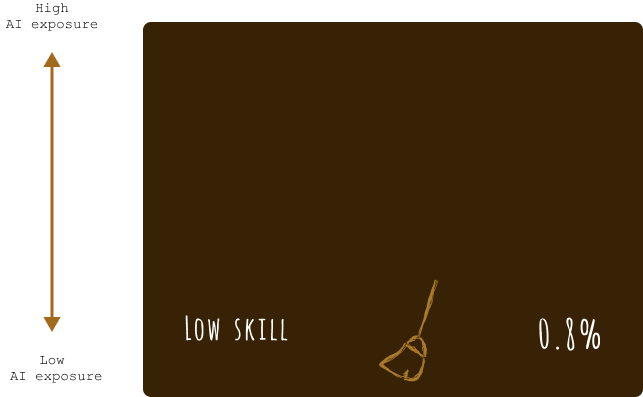
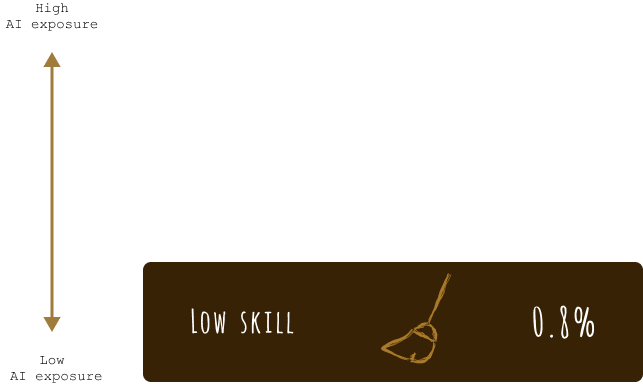
Refactor chart8: Update cutout images and clean up layout and logic

diff --git a/ai_exposure.js b/ai_exposure.js
@@ -648,22 +648,31 @@ chartRenderers[8] = function(titleText, dataPath, chartArea) {
     height: 397
   };
 
+  const cardWidth = 500;
+  const cardHeight = 120;
+  const cardGap = 16;
+
   const cards = [
     {
       label: "Medium skill",
-      x: 200,
-      y: 160,
+      y: skillBg.y,
       image: "assets/chapter2/medium_skill.png",
       color: "#943533",
       tooltip: "25.8% medium exposure + 12.3% high exposure"
     },
     {
       label: "High skill",
-      x: 150,
-      y: 300,
-      image: "assets/chapter2/high skill.png",
+      y: skillBg.y + cardHeight + cardGap,
+      image: "assets/chapter2/high_skill.png",
       color: "#A07B3B",
       tooltip: "22.2% medium exposure + 13.1% high exposure"
+    },
+    {
+      label: "Low skill",
+      y: skillBg.y + (cardHeight + cardGap) * 2,
+      image: "assets/chapter2/low_skill.png",
+      color: "#3B260E",
+      tooltip: "Only 0.8% high or medium exposure"
     }
   ];
 
@@ -671,8 +680,8 @@ chartRenderers[8] = function(titleText, dataPath, chartArea) {
     const svg = chartArea.append("svg")
       .attr("width", width)
       .attr("height", height);
-
-    // ✅ 添加：独白控制变量和函数
+    
+    // ✅ 独白控制逻辑
     let hasShownDialogue3 = false;
     function showChart8DialogueImage() {
       if (hasShownDialogue3) return;
@@ -681,12 +690,12 @@ chartRenderers[8] = function(titleText, dataPath, chartArea) {
       document.addEventListener("click", () => hideDialogueBoxById("dialogue-box3"), { once: true });
     }
 
-    // 背景底图（包含 low skill）
+    // ✅ 左侧箭头图片
     svg.append("image")
-      .attr("href", "assets/chapter2/skill_level_bg.png")
-      .attr("x", skillBg.x)
+      .attr("href", "assets/chapter2/arrow.png")
+      .attr("x", 30)
       .attr("y", skillBg.y)
-      .attr("width", skillBg.width)
+      .attr("width", 104)  // 根据你的图片尺寸调整
       .attr("height", skillBg.height);
 
     // tooltip
@@ -704,18 +713,20 @@ chartRenderers[8] = function(titleText, dataPath, chartArea) {
       .style("display", "none")
       .style("pointer-events", "none");
 
-    // 卡片层（含背景 + 切图）
+    // ✅ 卡片层
+    const cardX = 172;
+
     cards.forEach(card => {
       const group = svg.append("g")
-        .attr("transform", `translate(${card.x}, ${card.y})`)
+        .attr("transform", `translate(${cardX}, ${card.y})`)
         .style("cursor", "default");
 
       const rect = group.append("rect")
         .attr("x", 0)
         .attr("y", 0)
-        .attr("width", 500)
-        .attr("height", 120)
-        .attr("rx", 14)
+        .attr("width", cardWidth)
+        .attr("height", cardHeight)
+        .attr("rx", 8)
         .attr("fill", card.color)
         .attr("opacity", 0.95);
 
@@ -727,7 +738,7 @@ chartRenderers[8] = function(titleText, dataPath, chartArea) {
         .attr("y", 15);
 
       group.on("mouseover", function (event) {
-        group.transition().duration(150).attr("transform", `translate(${card.x - 4}, ${card.y - 4})`);
+        group.transition().duration(150).attr("transform", `translate(${cardX - 4}, ${card.y - 4})`);
         rect.transition().duration(150).attr("fill", d3.color(card.color).brighter(0.5));
         tooltip
           .style("left", event.pageX + 12 + "px")
@@ -735,18 +746,17 @@ chartRenderers[8] = function(titleText, dataPath, chartArea) {
           .style("display", "block")
           .html(`<strong>${card.label}</strong><br>${card.tooltip}`);
 
-        // ✅ 添加：首次悬浮触发 dialogue3 显示
         showChart8DialogueImage();
       });
 
       group.on("mouseout", function () {
-        group.transition().duration(150).attr("transform", `translate(${card.x}, ${card.y})`);
+        group.transition().duration(150).attr("transform", `translate(${cardX}, ${card.y})`);
         rect.transition().duration(150).attr("fill", card.color);
         tooltip.style("display", "none");
       });
     });
 
-    // 光照图层放在最顶层
+    // ✅ 光照图层
     svg.append("image")
       .attr("href", "assets/chapter2/light.png")
       .attr("x", 140)
@@ -757,5 +767,6 @@ chartRenderers[8] = function(titleText, dataPath, chartArea) {
     resolve();
   });
 };
+
 
 

diff --git a/human_ai_relation.js b/human_ai_relation.js
@@ -1,0 +1,70 @@
+// human_ai_relation.js
+
+if (!window.chapter2HumanAI) {
+  window.chapter2HumanAI = {};
+}
+
+// 当前幻灯片编号
+let currentHASSlide = 0;
+
+// 幻灯片路径列表（根据你的文件结构调整）
+const hasSlides = [
+  "assets/chapter2/prologue2.png",
+  "assets/chapter2/HAS.png",
+  "assets/chapter2/prologue3.png"
+];
+
+function showHASSlide(index) {
+  const container = document.getElementById("datavis-container");
+  const bg = document.getElementById("datavis-bg");
+  const title = document.getElementById("datavis-title");
+  const chartArea = document.getElementById("datavis-chart-area");
+  const tabs = document.getElementById("datavis-tabs");
+  const genderTabs = document.getElementById("gender-tabs");
+
+  container.style.opacity = 0;
+  setTimeout(() => {
+    bg.src = hasSlides[index];
+    title.textContent = ""; // 清空标题
+    chartArea.innerHTML = ""; // 清空图表区域
+    tabs.style.display = "none";
+    genderTabs.style.display = "none";
+
+    container.style.display = "block";
+    setTimeout(() => {
+      container.style.opacity = 1;
+    }, 50);
+  }, 300);
+}
+
+function initHASFlow() {
+  const container = document.getElementById("datavis-container");
+  const rightArrow = document.querySelector(".arrow-right");
+
+  showHASSlide(currentHASSlide);
+
+  function advanceSlide() {
+    currentHASSlide++;
+
+    if (currentHASSlide < hasSlides.length) {
+      showHASSlide(currentHASSlide);
+    } else {
+      // 返回章节入口房间
+      container.style.opacity = 0;
+      setTimeout(() => {
+        container.style.display = "none";
+        document.getElementById("scene-container").style.display = "block";
+        document.getElementById("scene-image").src = "assets/chapter2/room.png"; // 你的房间图路径
+      }, 400);
+    }
+  }
+
+  container.addEventListener("click", advanceSlide);
+  if (rightArrow) {
+    rightArrow.addEventListener("click", () => {
+      initHASFlow();
+    }, { once: true });
+  }
+}
+
+window.chapter2HumanAI.init = initHASFlow;

diff --git a/index.html b/index.html
@@ -54,6 +54,7 @@
   <script src="https://unpkg.com/d3-cloud/build/d3.layout.cloud.js"></script>
   <script src="emotion_charts.js"></script>
   <script src="ai_exposure.js"></script>
+  <script src="human_ai_relation.js"></script>
   <script src="datavis.js"></script>
 </body>
 </html>

diff --git a/emotion_charts.js b/emotion_charts.js
@@ -1,3 +1,5 @@
+// emotion_charts.js
+
 function getHighlightColor(hex, factor = 1.2) {
   const c = d3.color(hex);
   if (!c) return hex;

diff --git a/datavis.js b/datavis.js
@@ -1,3 +1,5 @@
+// datavis.js
+
 const chartConfigs = [
   {
     title: "Word cloud of public sentiment towards AI by UK Adults",

diff --git a/script.js b/script.js
@@ -1,3 +1,5 @@
+// script.js
+
 const memoryCollected = {
   room1: false,
   room2: false,
